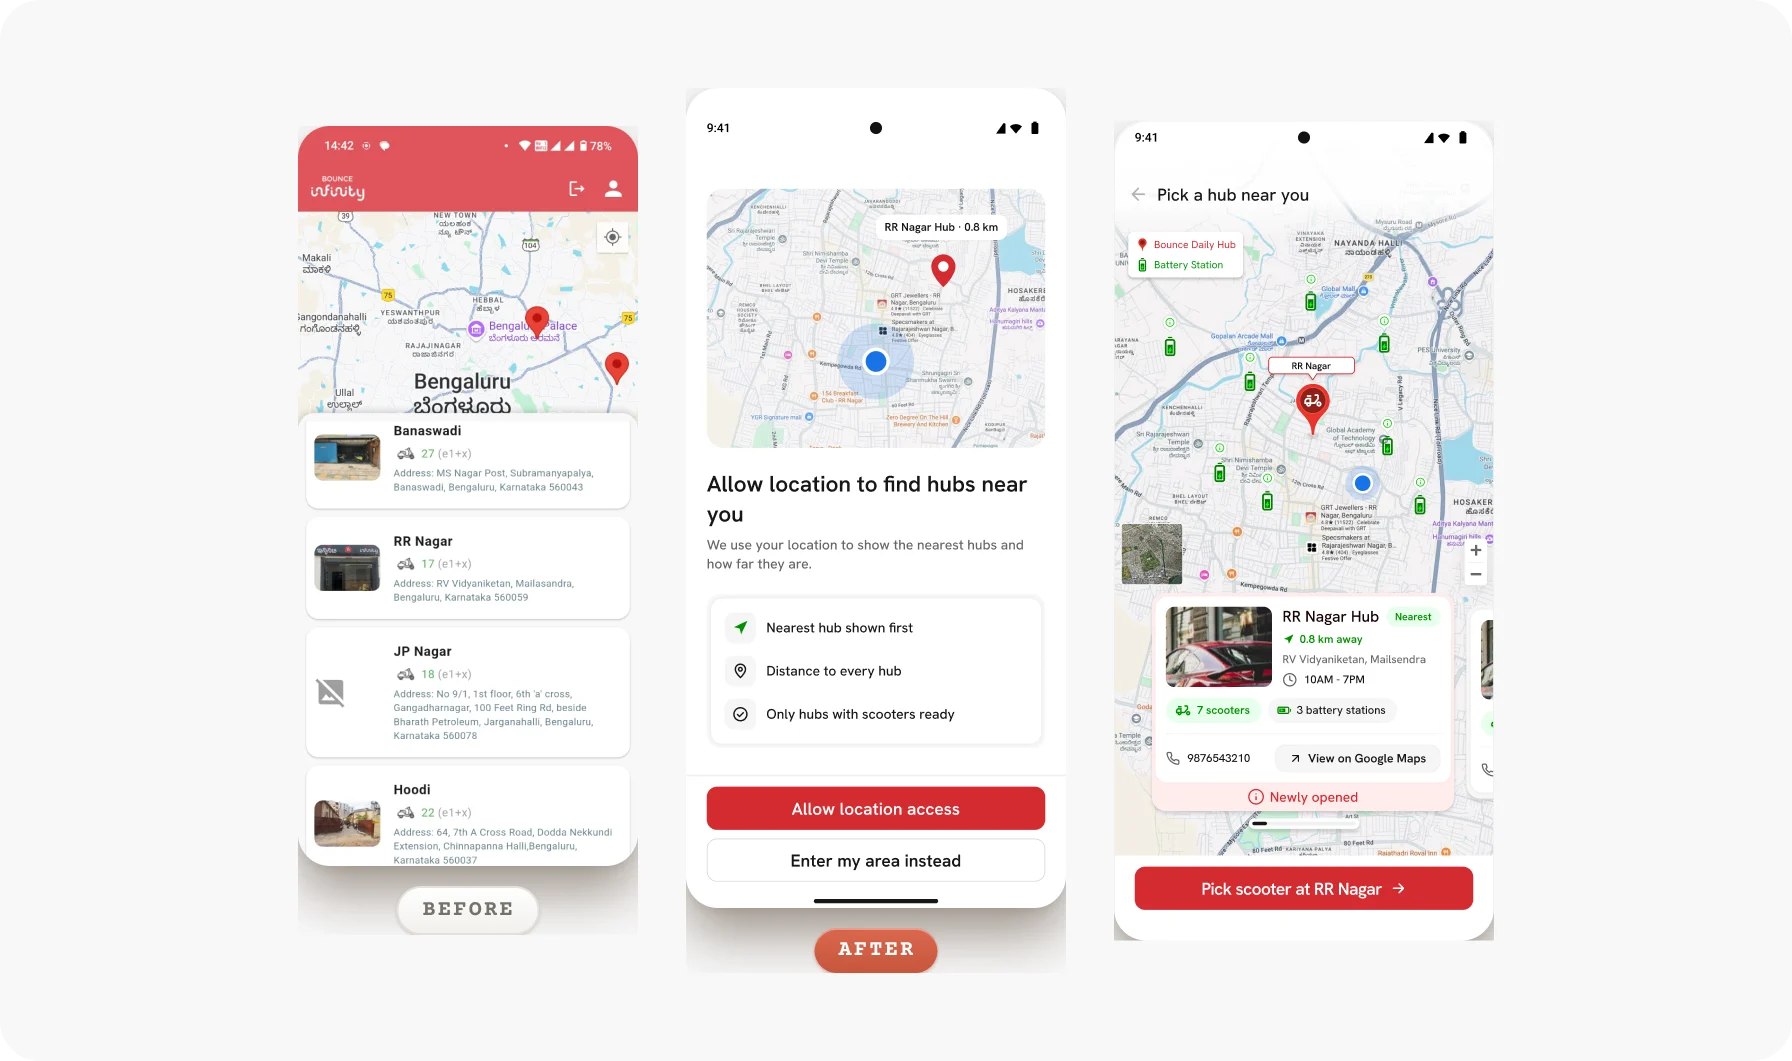
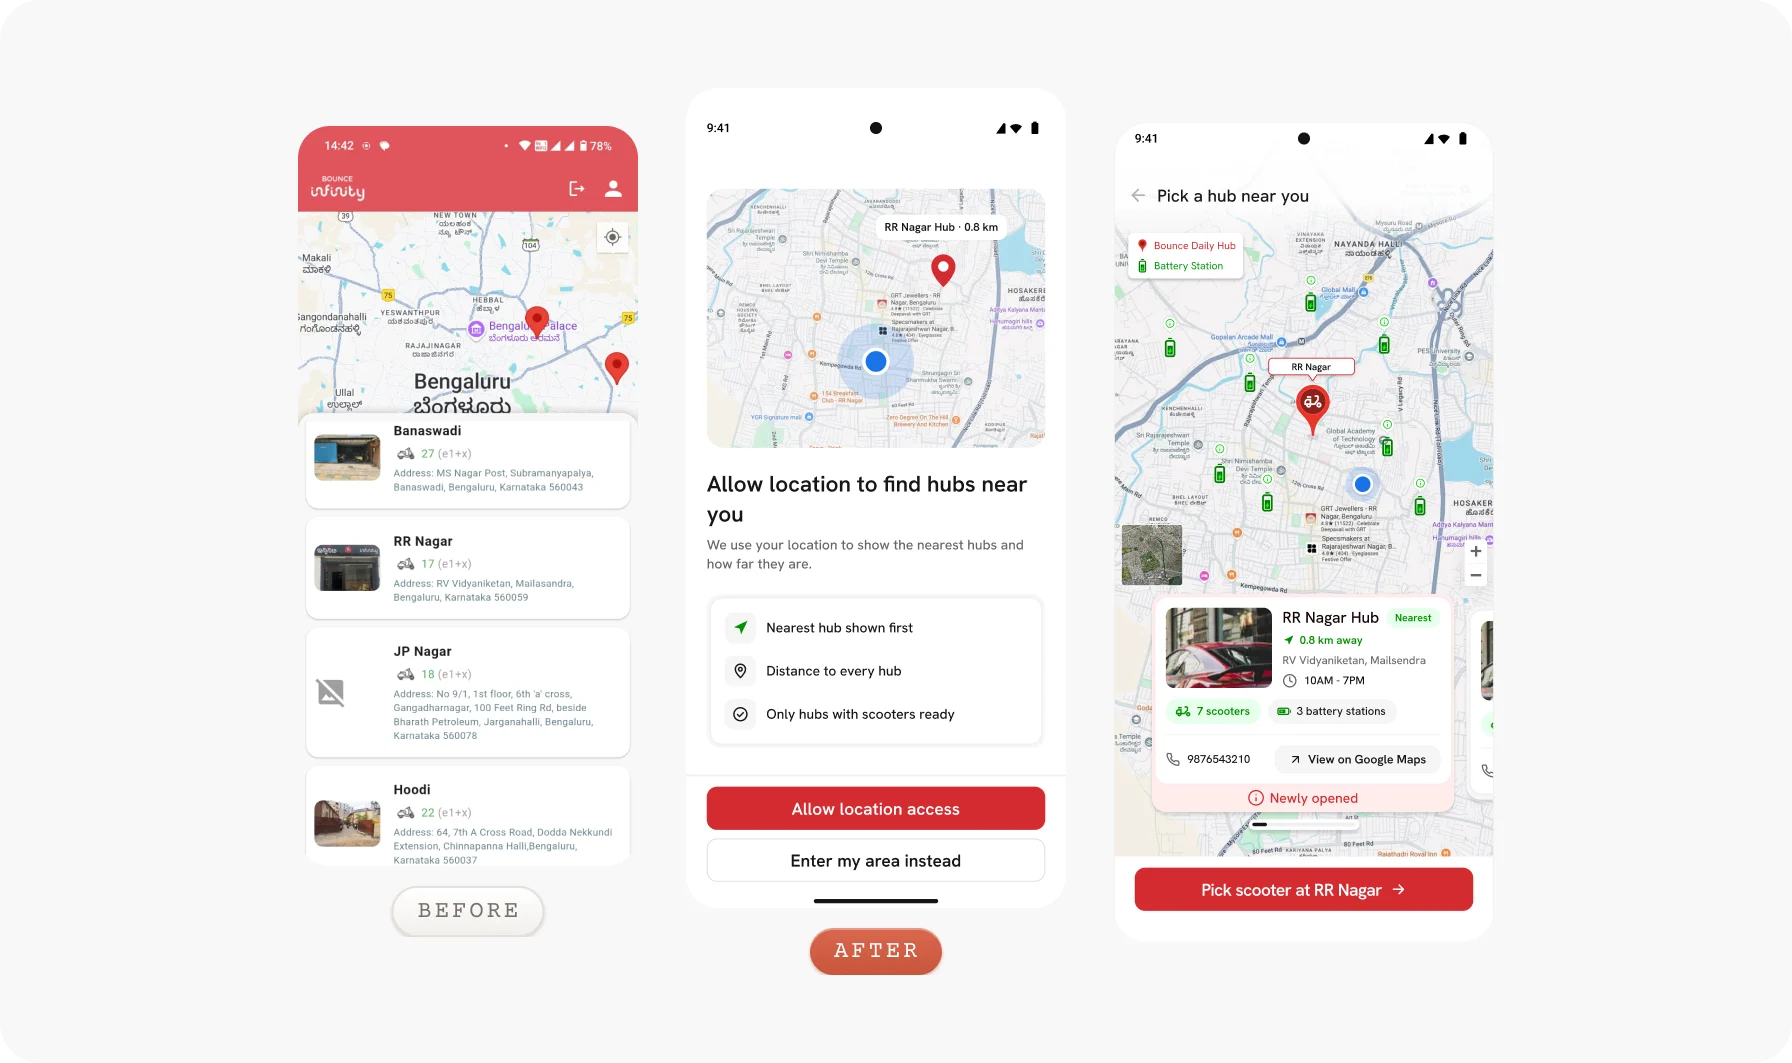
Bounce Daily: serif headers and contents, no highlighter fills, no shadows under mockups

diff --git a/src/app/work/bounce-daily/page.tsx b/src/app/work/bounce-daily/page.tsx
@@ -16,7 +16,7 @@ export const metadata: Metadata = {
 // Bounce Daily case study. This page follows her Figma v4 frame one to one (file eJ4fYjVQ…, page
 // "Case study · web page", frame 1312:9945): same header, same words, same figures in the same order.
 // Change the Figma first, then mirror it here. The only addition is the scroll scribbles she chose (Mark):
-// swoosh = facts, circle = numbers, highlight = lines that hurt, spark = one moment.
+// swoosh = facts, circle = numbers, box, spark = one moment (highlighter fills removed at her ask).
 // Figures are her composed canvases exported 2× into public/assets/cases/bounce/v4/fig.
 
 // the nine contents entries from the Figma frame; "Making it real" lights up The UI layer's entry
@@ -34,14 +34,15 @@ const TOC: TocItem[] = [
 
 export default function BounceDaily() {
   return (
-    <div className="w-full">
+    // every header on this page is in Redaction (her ask): the small labels and the contents list too, in normal case
+    <div className="w-full [&_nav[aria-label=Contents]]:font-serif [&_nav[aria-label=Contents]_.label]:text-[15px] [&_nav[aria-label=Contents]_.label]:tracking-normal [&_nav[aria-label=Contents]_.label]:normal-case [&_nav[aria-label=Contents]_a]:text-[15px]">
       <div className="mx-auto max-w-[826px] px-6">
         <Nav />
       </div>
 
       <CaseStudyFrame
         layout="sheet"
-        contentClassName="[&_.printed]:[filter:none] [&_.printed]:[text-shadow:none] [&_.printed]:[-webkit-text-stroke:0]"
+        contentClassName="[&_.printed]:[filter:none] [&_.printed]:[text-shadow:none] [&_.printed]:[-webkit-text-stroke:0] [&_.label]:font-serif [&_.label]:text-[16px] [&_.label]:leading-snug [&_.label]:tracking-normal [&_.label]:normal-case"
         toc={TOC}
         header={
           <header>
@@ -123,7 +124,7 @@ export default function BounceDaily() {
           <P>
             Bounce Daily rents EV scooters by the day, week or month to delivery and gig riders in <Mark type="swoosh">Bengaluru and Delhi NCR</Mark>. A
             rider picks a hub, chooses a scooter and a plan, gets verified, pays, and rides to work every day. For them, a sold-out hub or an expired
-            plan isn&apos;t an inconvenience. <Mark type="highlight" order={1}>It&apos;s a day without earnings.</Mark>
+            plan isn&apos;t an inconvenience. It&apos;s a day without earnings.
           </P>
           <P>
             I was{" "}
@@ -132,7 +133,7 @@ export default function BounceDaily() {
                 the app&apos;s first UI designer
               </Mark>
             </Mark>
-            . Before me there was <Mark type="highlight" order={1}>no designer, no system and no shared way of doing things</Mark>. I redesigned the
+            . Before me there was no designer, no system and no shared way of doing things. I redesigned the
             Android rider app end to end <Mark type="circle" order={2}>over 3 months</Mark>, working{" "}
             <Mark type="swoosh" order={3}>through DreamLaunch with the product manager</Mark>.
           </P>
@@ -141,7 +142,7 @@ export default function BounceDaily() {
         <Chapter id="problem" name="Problem" lead="An app that asked for everything before it gave anything.">
           <P>
             When the product manager brought me the project, the app did its job on paper. Riders could sign up, find a hub and pay. But they were
-            leaving, and he came with the business concerns behind it: <Mark type="highlight">riders dropping off at plans</Mark>, documents demanded up
+            leaving, and he came with the business concerns behind it: riders dropping off at plans, documents demanded up
             front, and a rider base that reads little.
           </P>
           <P>
@@ -157,14 +158,14 @@ export default function BounceDaily() {
           />
           <P>
             Riders who made it through met plans laid out as <Mark type="box">near-identical boxes of four numbers</Mark> each, and after paying, the app
-            showed a countdown and little else. When it hit zero, it simply said <Mark type="highlight" order={1}>time had run out</Mark>.
+            showed a countdown and little else. When it hit zero, it simply said time had run out.
           </P>
         </Chapter>
 
         <Chapter id="how" name="How I worked" lead="No research team. Just the old app, walked screen by screen, and a lot of UX principles.">
           <P>
             I want to be honest about how this project ran. <Mark type="swoosh">I didn&apos;t run user interviews</Mark>, and this was{" "}
-            <Mark type="highlight" order={1}>before the AI boom</Mark>, so there was no shortcut for research. What I had was the live app. I took
+            before the AI boom, so there was no shortcut for research. What I had was the live app. I took
             screenshots, then went through every flow myself, the way a rider would, and mapped the whole old journey end to end.
           </P>
           <P>
@@ -176,7 +177,7 @@ export default function BounceDaily() {
 
         <Chapter id="goal" name="The goal" lead="Everything visible, nothing overwhelming.">
           <P>
-            Many riders have low literacy. They want every detail before they commit, but <Mark type="highlight">they won&apos;t read a paragraph to find it</Mark>.
+            Many riders have low literacy. They want every detail before they commit, but they won&apos;t read a paragraph to find it.
             Putting everything on one screen overwhelms them; hiding it loses them. So every screen had one rule: show only what this step needs, as a
             map, a picture, a chip or a number, and answer three questions. <Mark type="swoosh" order={1}>Where am I? What&apos;s happening? What do I do next?</Mark>
           </P>
@@ -220,13 +221,13 @@ export default function BounceDaily() {
                 cared for, and for someone who reads little,{" "}
                 <Mark type="swoosh" order={1}>a picture and a familiar face say more than a paragraph</Mark> ever could.
               </P>
-              <Fig name="onboarding" h={979} alt="Before: the old text-heavy how-it-works slide. After: three illustrated intro screens." />
+              <Fig name="onboarding" h={981} alt="Before: the old text-heavy how-it-works slide. After: three illustrated intro screens." />
             </Step>
 
             <Step id="j2" label="2. Finding a hub" title="Riders don't think in hub names. They think, “Where's the closest scooter?”">
               <P>
                 The old app gave riders a list of hubs by name, with the details on a second screen. To find the right one, they had to{" "}
-                <Mark type="highlight">read names and addresses and work out the distance themselves</Mark>.
+                read names and addresses and work out the distance themselves.
               </P>
               <P>
                 Riders spend their day in map apps, so <Mark type="swoosh">a map is a screen they already know how to read</Mark>. The new hub screen opens
@@ -234,14 +235,14 @@ export default function BounceDaily() {
                 “Enter my area instead” for riders who&apos;d rather not share it. The same hub card comes back on the payment success screen and on home,
                 so riders recognise their hub everywhere.
               </P>
-              <Fig name="hubs" h={1061} alt="Before: the old hub list. After: the allow-location screen and the hub map opening on the nearest hub." />
+              <Fig name="hubs" h={1063} alt="Before: the old hub list. After: the allow-location screen and the hub map opening on the nearest hub." />
             </Step>
 
             <Step id="j3" label="3. Choosing a scooter" title="The licence rule had to be impossible to miss.">
               <P>
                 High-speed scooters need a driving licence; low-speed ones don&apos;t. My first instinct was to save a tap: put a speed toggle on the plan
                 screen, and show a licence sheet when someone tapped high speed. I designed that, then tested it against the rule, and{" "}
-                <Mark type="highlight">it didn&apos;t hold up</Mark>. The licence only appeared if you tapped, and riders were choosing a scooter and a plan at
+                it didn&apos;t hold up. The licence only appeared if you tapped, and riders were choosing a scooter and a plan at
                 the same time.
               </P>
               <P>
@@ -275,14 +276,14 @@ export default function BounceDaily() {
             <Step id="j4" label="4. Choosing a plan" title="Plans riders can compare without doing maths.">
               <P>
                 In the old app, every plan sat in a near-identical box with four numbers: a price, a deposit, a price per km and a km limit. Comparing two
-                plans meant <Mark type="highlight">reading and remembering eight numbers</Mark>, and that&apos;s exactly where many riders left.
+                plans meant reading and remembering eight numbers, and that&apos;s exactly where many riders left.
               </P>
               <P>
                 I gave each screen one decision, and each plan <Mark type="swoosh">one number to compare: its price per day</Mark>. Kilometres moved into
                 their own step, and a review screen came before paying. The fewer things you ask someone to weigh at once, the faster and surer they
                 decide.
               </P>
-              <Fig name="plans" h={1127} alt="Before: old plan boxes with four numbers each. After: plan cards led by the price per day." />
+              <Fig name="plans" h={1129} alt="Before: old plan boxes with four numbers each. After: plan cards led by the price per day." />
             </Step>
 
             <Step id="j5" label="5. Verifying and paying" title="Where KYC goes: the question that took the longest.">
@@ -327,7 +328,7 @@ export default function BounceDaily() {
             <Step id="j6" label="6. After paying" title="The app remembers, so the rider doesn't have to.">
               <P>
                 After paying, the old app showed a countdown. Riders had to{" "}
-                <Mark type="highlight">work out for themselves what was going on</Mark> with their KYC, their plan, their kilometres and their dues.
+                work out for themselves what was going on with their KYC, their plan, their kilometres and their dues.
               </P>
               <P>
                 I replaced the timer with <Mark type="swoosh">one booking card on home that changes with the rider&apos;s stage</Mark>: KYC in review, ready
@@ -335,7 +336,7 @@ export default function BounceDaily() {
                 Top up never swap places, and Renew leads unless kilometres are the problem, because an ended plan locks the scooter. Until the ride
                 starts, a small tracker shows how far along the rider is: paid, KYC, picked up, riding.
               </P>
-              <Fig name="home" h={981} alt="Before: the old booking countdown. After: home with the booking card ready to collect, ready to ride, and active." />
+              <Fig name="home" h={983} alt="Before: the old booking countdown. After: home with the booking card ready to collect, ready to ride, and active." />
               <P>
                 The same card warns riders before things run out. When a plan is about to end or kilometres are running low, a sheet says so with the best
                 plan to renew or a top-up, and when dues are pending, they&apos;re itemised and explained before the next trip.
@@ -354,7 +355,7 @@ export default function BounceDaily() {
           <P>
             Beyond the happy path, I designed <Mark type="circle">eight scenarios</Mark>: a sold-out hub, a city we don&apos;t serve yet, a failed
             payment, KYC not approved, a plan ending and ended, kilometres running low and used up, and dues before a new trip. In the old app, most of
-            them <Mark type="highlight" order={1}>ended in a toast or a timer running out</Mark>.
+            them ended in a toast or a timer running out.
           </P>
           <P>
             Now each one says what went wrong in plain words, shows an illustration instead of a paragraph, and gives{" "}
@@ -378,7 +379,7 @@ export default function BounceDaily() {
           </P>
           <P>
             Early on, I flagged that the app used red for everything: buttons, headers, icons and cards.{" "}
-            <Mark type="highlight">When everything shouts, nothing does.</Mark> We prioritised the flows first, and the system now keeps{" "}
+            When everything shouts, nothing does. We prioritised the flows first, and the system now keeps{" "}
             <Mark type="circle" order={1}>one red action per screen</Mark>.
           </P>
           <Fig
@@ -393,7 +394,7 @@ export default function BounceDaily() {
           <P>
             <Mark type="swoosh">I handled the developer handoffs myself.</Mark> Before handing anything over, I mapped every screen of the new app and
             connected them, so the developers could see the whole journey, including every branch where something goes wrong. Each screen went over with
-            its states and the shared components it was built from, so <Mark type="highlight" order={1}>what shipped matched what was designed</Mark>.
+            its states and the shared components it was built from, so what shipped matched what was designed.
           </P>
           <Fig
             name="flow-map"
@@ -407,7 +408,7 @@ export default function BounceDaily() {
         <Chapter id="impact" name="Impact and learnings" lead="Shipped on Android in 3 months, and it moved the numbers that mattered.">
           <P>
             The revamp shipped and is <Mark type="swoosh">live on the Play Store</Mark>, rated <Mark type="circle" order={1}>4.8</Mark> with over a lakh
-            downloads. After launch, the team saw <Mark type="highlight" order={2}>noticeable improvements in rider onboarding and plan adoption</Mark>.
+            downloads. After launch, the team saw noticeable improvements in rider onboarding and plan adoption.
             The exact numbers stay with Bounce for business reasons, but those were the two places the redesign was meant to move: getting riders through
             the door, and getting them to commit to a plan.
           </P>
@@ -425,7 +426,7 @@ export default function BounceDaily() {
             colour system with a few screens side by side, not an argument.
           </P>
           <P>
-            The real thing I took from Bounce is that <Mark type="highlight">when you ask for something matters as much as what you ask for</Mark>. KYC
+            The real thing I took from Bounce is that when you ask for something matters as much as what you ask for. KYC
             asked for the same documents before and after the redesign. Moving it from the first minute to the moment just before paying turned a wall
             into a last step. And a rider who reads little doesn&apos;t need less information.{" "}
             <Mark type="swoosh" order={1}>They need it in a form they can take in at a glance.</Mark>

diff --git a/PROJECT-CONTEXT.md b/PROJECT-CONTEXT.md
@@ -743,3 +743,4 @@ _Sanskriti picked **A**, with the Fuji scene moved to the footer (see 8d)._
   - Mobile: rows of phones scroll sideways inside their canvas; page stays at screen width (min-w-0 on canvases and sections).
 - **2026-11-23:** **Bounce page re-matched to her Figma v4 frame one to one** (she pointed out the site and Figma differed). The first build kept the old site header and added my own content; now the page mirrors frame 1312:9945 exactly: subtitle "From a document wall to a rider journey.", her hero scene, the tl;dr cards (The problem / What I did / Who it's for / The result), "Worked with: Product manager", 9 contents entries, serif section name + italic lead line on a red rule, mono body (site default, Hanken override removed), "1. Onboarding"-style step labels with serif titles, and her composed figures exported 2× to `public/assets/cases/bounce/v4/fig/` (15 images, captions as HTML except the KYC figure, whose caption is part of the image). Removed my additions: stats row, Android/First UI designer pills, "via DreamLaunch", invented headings, captions and question pills; restored the dropped KYC examples sentence. Scroll scribbles stay (her pick). Rule: change Figma first, then mirror it on the page.
 - **2026-11-23:** Bounce header, her asks: **"Worked with" now reads "Aum Vats (PM @ [Bounce Daily logo])"** (logo SVG exported from her Figma intro screen to `public/assets/cases/bounce/bounce-daily-logo.svg`; `MetaBar` `partners` now takes a ReactNode), and the **tl;dr cards use the soft `.skeu` finish**. Both mirrored in Figma v4 (text 1312:10123 + logo clone, cards 1312:10131/10136/10141/10146 with the same gradient, inner highlight and shadows). The body text still says "the product manager"; only the header names him, at her request.
+- **2026-11-23:** Bounce page, her asks: (1) **every header in Redaction**: the small labels (Case study · 2025, Role/Duration/Worked with, tl;dr labels, step labels, Closing thought, testimonial credit) and the Contents list, in normal case (page-scoped classes on the wrapper and `contentClassName`; other case studies unchanged); mirrored in Figma v4 (Newsreader). (2) **Highlighter fills removed** (all 15 `highlight` marks); swooshes, circles, box and spark stay. (3) **No shadows under mockups**: drop shadows removed from the phone frames in her Figma figures (pills keep theirs) and the 11 phone figures re-exported. The hero is a single flattened image in Figma, so its phones are unchanged.
